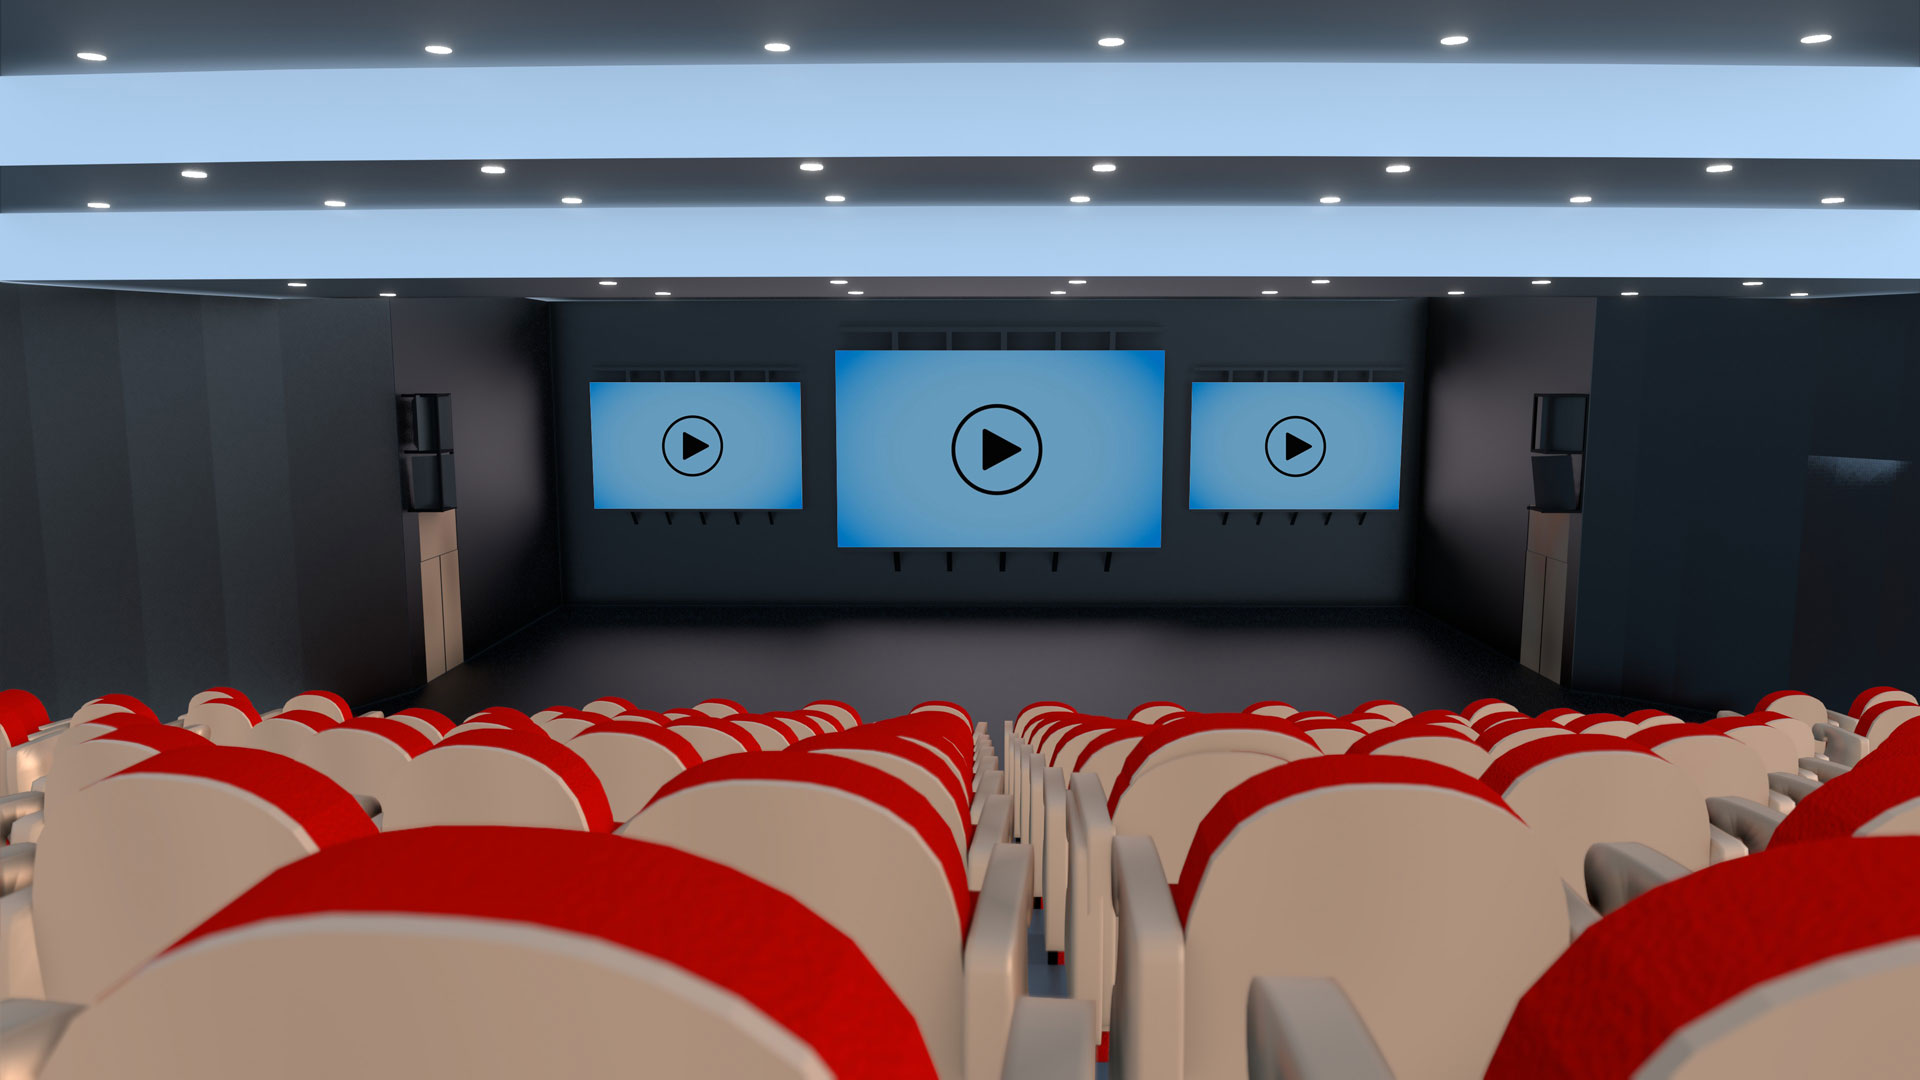
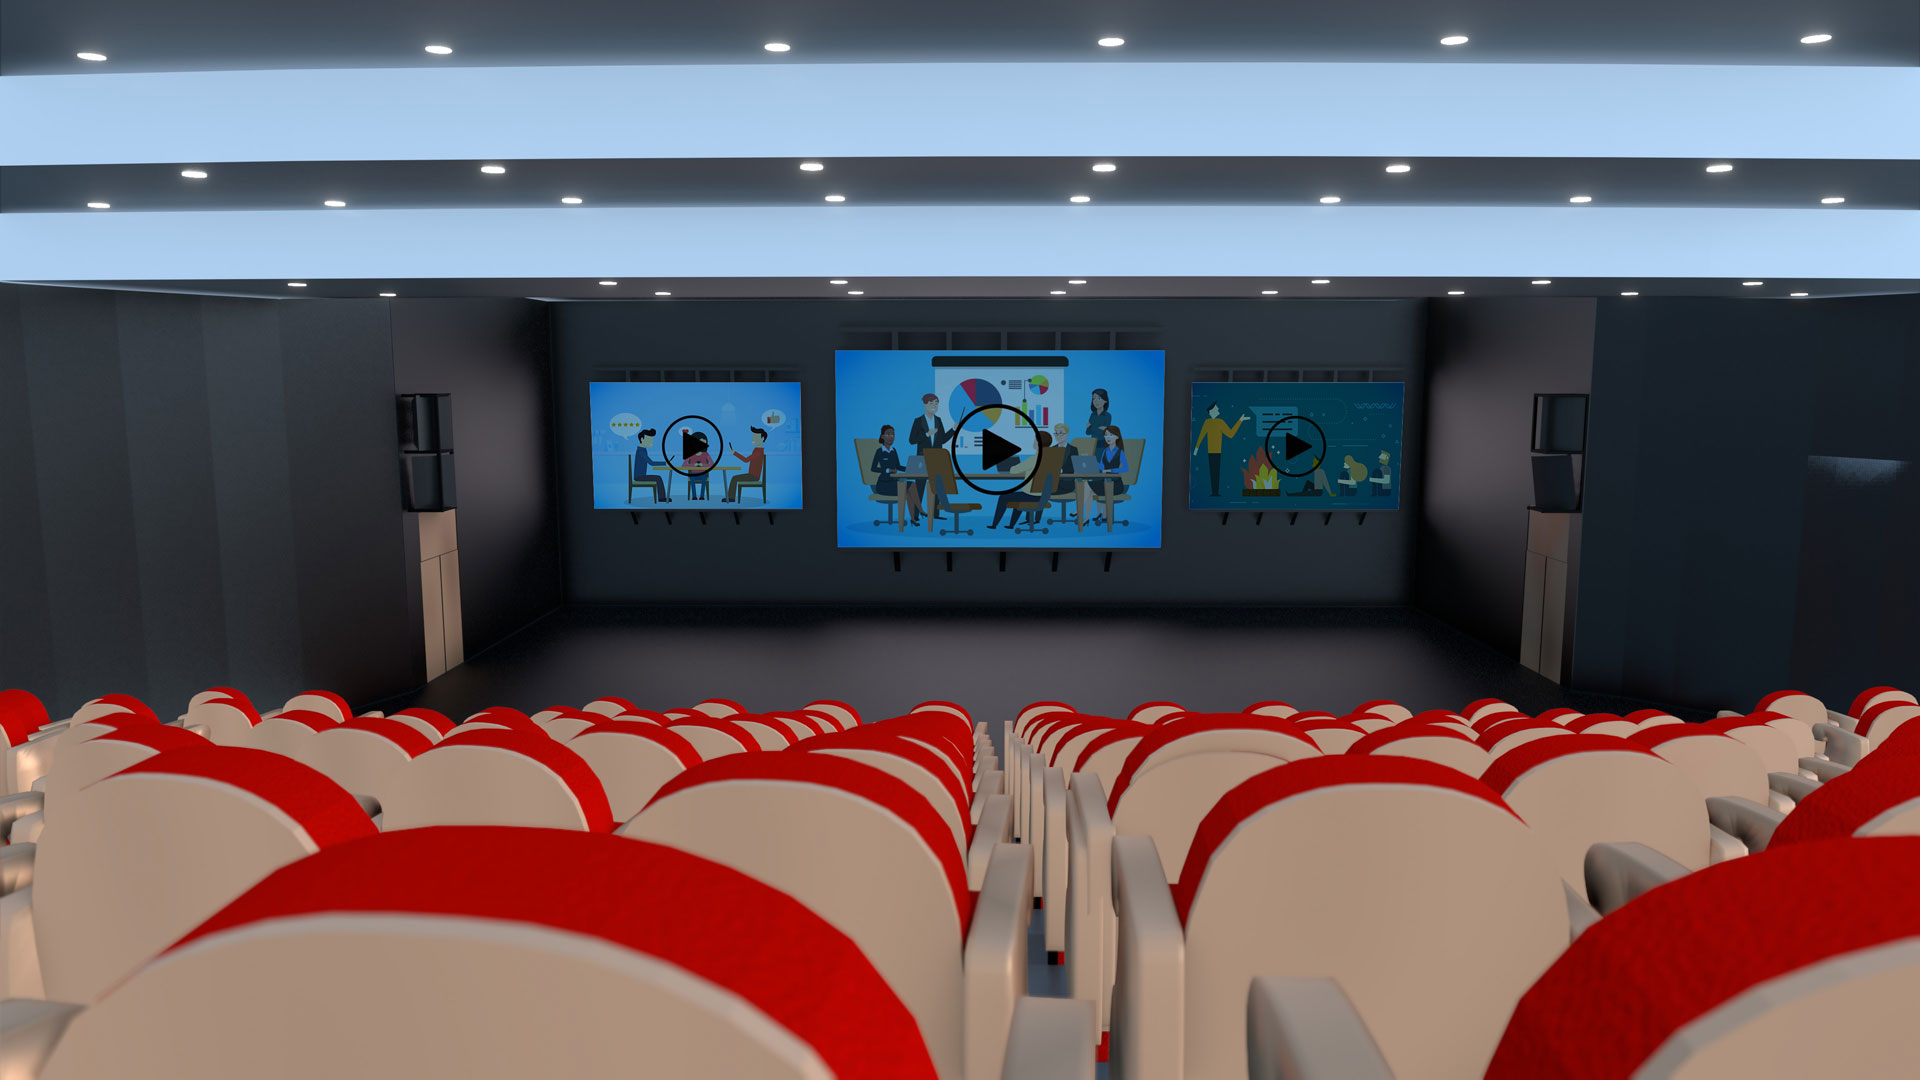
ENCGC-023 - fix : change webinar background and video link

Changed region(s): [[0.2812, 0.3056, 0.75, 0.5194]]

diff --git a/resources/views/pages/webinar.blade.php b/resources/views/pages/webinar.blade.php
@@ -19,19 +19,19 @@
             <map name="image-map">
 
                 <a>
-                    <area data-fancybox href="{{ url('https://www.youtube.com/watch?v=P8OoLtebnsY') }}" target="" alt=""
+                    <area data-fancybox href="{{ url('https://www.youtube.com/watch?v=ebuWKvGbJ00&feature=youtu.be') }}" target="" alt=""
                           title=""
                           coords="839,551,1164,348" shape="rect">
                 </a>
 
                 <a>
-                    <area data-fancybox href="{{ url('https://www.youtube.com/watch?v=P8OoLtebnsY') }}" target="" alt=""
+                    <area data-fancybox href="{{ url('https://www.youtube.com/watch?v=ebuWKvGbJ00&feature=youtu.be') }}" target="" alt=""
                           title=""
                           coords="801,383,596,514" shape="rect">
                 </a>
 
                 <a>
-                    <area data-fancybox href="{{ url('https://www.youtube.com/watch?v=P8OoLtebnsY') }}" target="" alt=""
+                    <area data-fancybox href="{{ url('https://www.youtube.com/watch?v=ebuWKvGbJ00&feature=youtu.be') }}" target="" alt=""
                           title=""
                           coords="1192,510,1407,385" shape="rect">
                 </a>
@@ -51,17 +51,17 @@
             <map name="image-map-xs">
 
                 <a>
-                    <area data-fancybox href="{{ url('https://www.youtube.com/watch?v=P8OoLtebnsY') }}" target="" alt="" title=""
+                    <area data-fancybox href="{{ url('https://www.youtube.com/watch?v=ebuWKvGbJ00&feature=youtu.be') }}" target="" alt="" title=""
                           coords="438,885,723,712" shape="rect">
                 </a>
 
                 <a>
-                    <area data-fancybox href="{{ url('https://www.youtube.com/watch?v=P8OoLtebnsY') }}" target="" alt="" title=""
+                    <area data-fancybox href="{{ url('https://www.youtube.com/watch?v=ebuWKvGbJ00&feature=youtu.be') }}" target="" alt="" title=""
                           coords="743,855,930,740" shape="rect">
                 </a>
 
                 <a>
-                    <area data-fancybox href="{{ url('https://www.youtube.com/watch?v=P8OoLtebnsY') }}" target="" alt="" title=""
+                    <area data-fancybox href="{{ url('https://www.youtube.com/watch?v=ebuWKvGbJ00&feature=youtu.be') }}" target="" alt="" title=""
                           coords="228,852,410,741" shape="rect">
                 </a>
 
